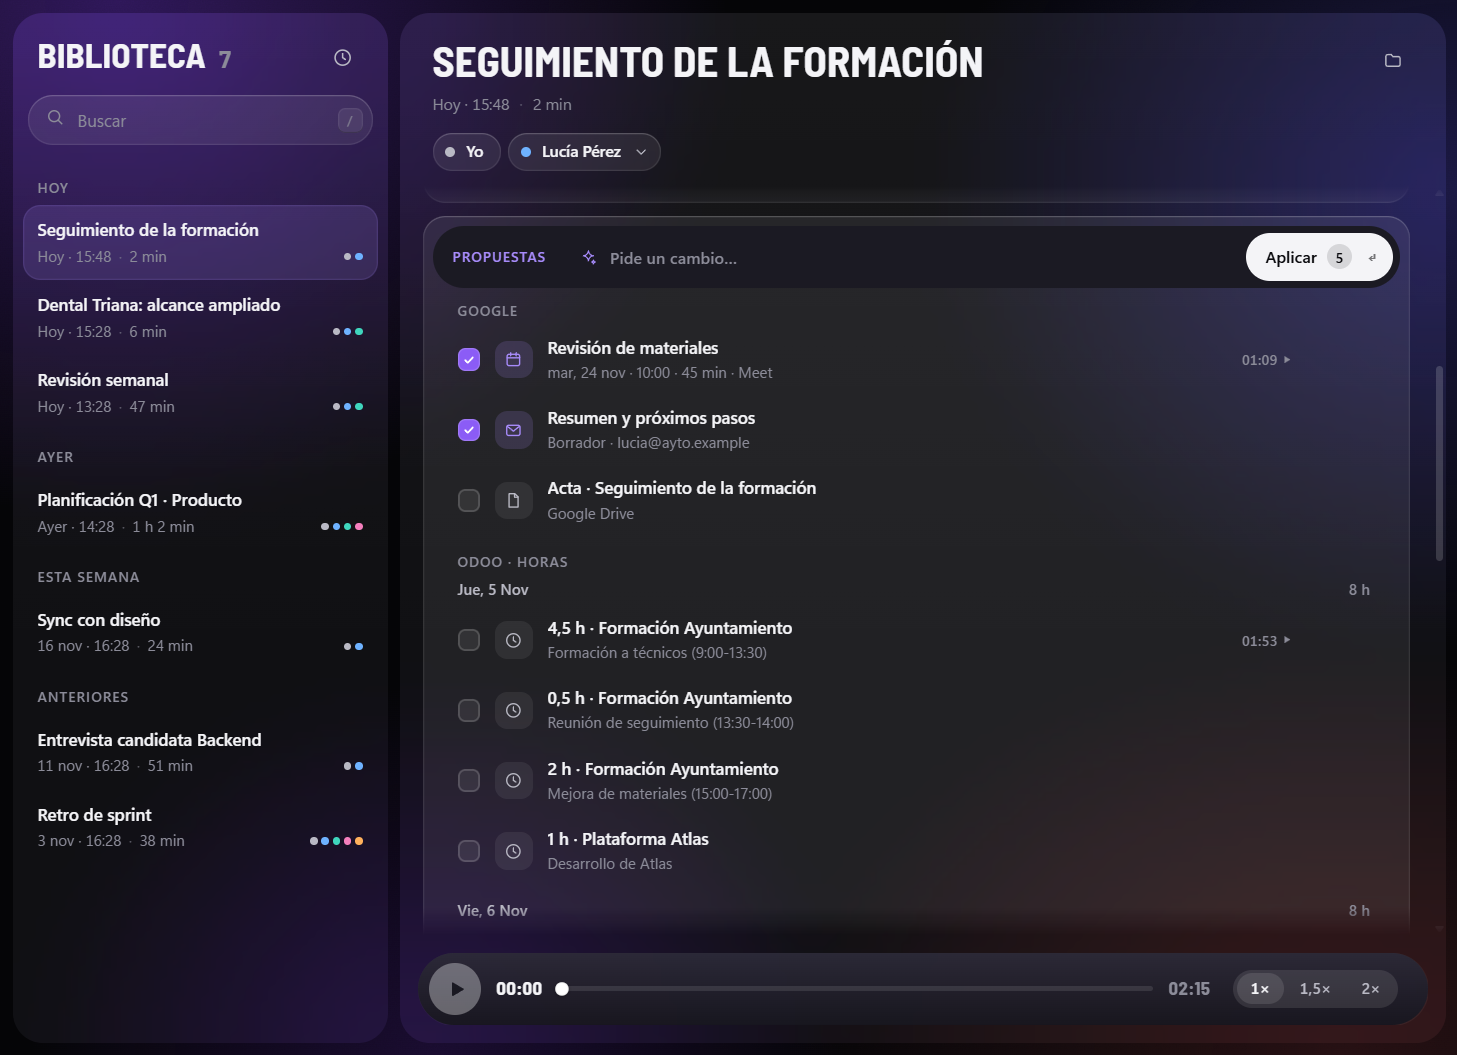
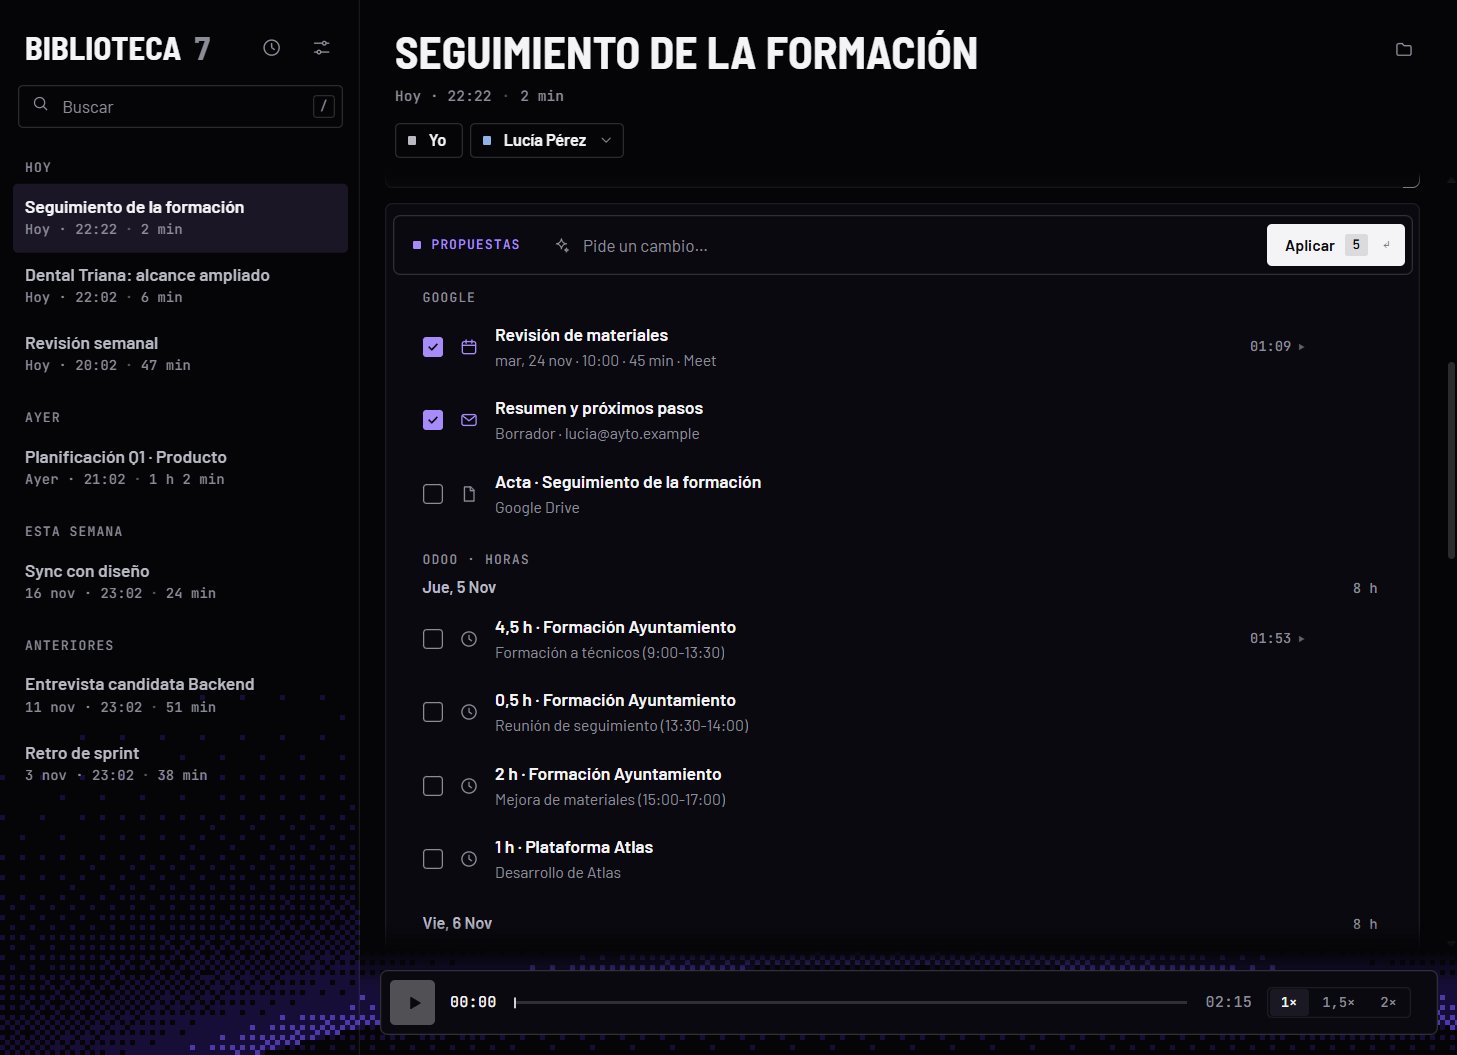
UI: el tramado solo en espacio vacio (bajo la barra lateral y una franja tras el reproductor), nunca a traves del texto

diff --git a/micnaga/ui/web/library.css b/micnaga/ui/web/library.css
@@ -348,3 +348,29 @@ dialog::backdrop { background: light-dark(rgb(243 243 240 / 0.72), rgb(0 0 0 / 0
 .app.behind { opacity: 0; }
 /* under the dithered wipe the swap is instant: the cells are the transition */
 :root.wiping .settings-view, :root.wiping .app { transition: none; }
+
+/* The limb stays in empty space only: tall under the sidebar's free bottom, and a low band behind
+   the player in the main column. It must never show through text or controls (the transcript's
+   bottom fade would otherwise reveal it under the proposals bar and the last lines). */
+.ambient {
+  -webkit-mask-image:
+    linear-gradient(to top, #000 0, #000 40%, transparent 70%),
+    linear-gradient(to top, #000 0, #000 56px, transparent 84px);
+  -webkit-mask-size: var(--side-w) 100%, 100% 100%;
+  -webkit-mask-position: left bottom, left bottom;
+  -webkit-mask-repeat: no-repeat;
+  -webkit-mask-composite: source-over;
+  mask-image:
+    linear-gradient(to top, #000 0, #000 40%, transparent 70%),
+    linear-gradient(to top, #000 0, #000 56px, transparent 84px);
+  mask-size: var(--side-w) 100%, 100% 100%;
+  mask-position: left bottom, left bottom;
+  mask-repeat: no-repeat;
+  mask-composite: add;
+}
+/* Ajustes on top: its own nav is narrower, so only the low band behind everything */
+body:has(.settings-view:not([hidden])) .ambient {
+  -webkit-mask-image: linear-gradient(to top, #000 0, #000 56px, transparent 84px);
+  mask-image: linear-gradient(to top, #000 0, #000 56px, transparent 84px);
+  -webkit-mask-size: 100% 100%; mask-size: 100% 100%;
+}
